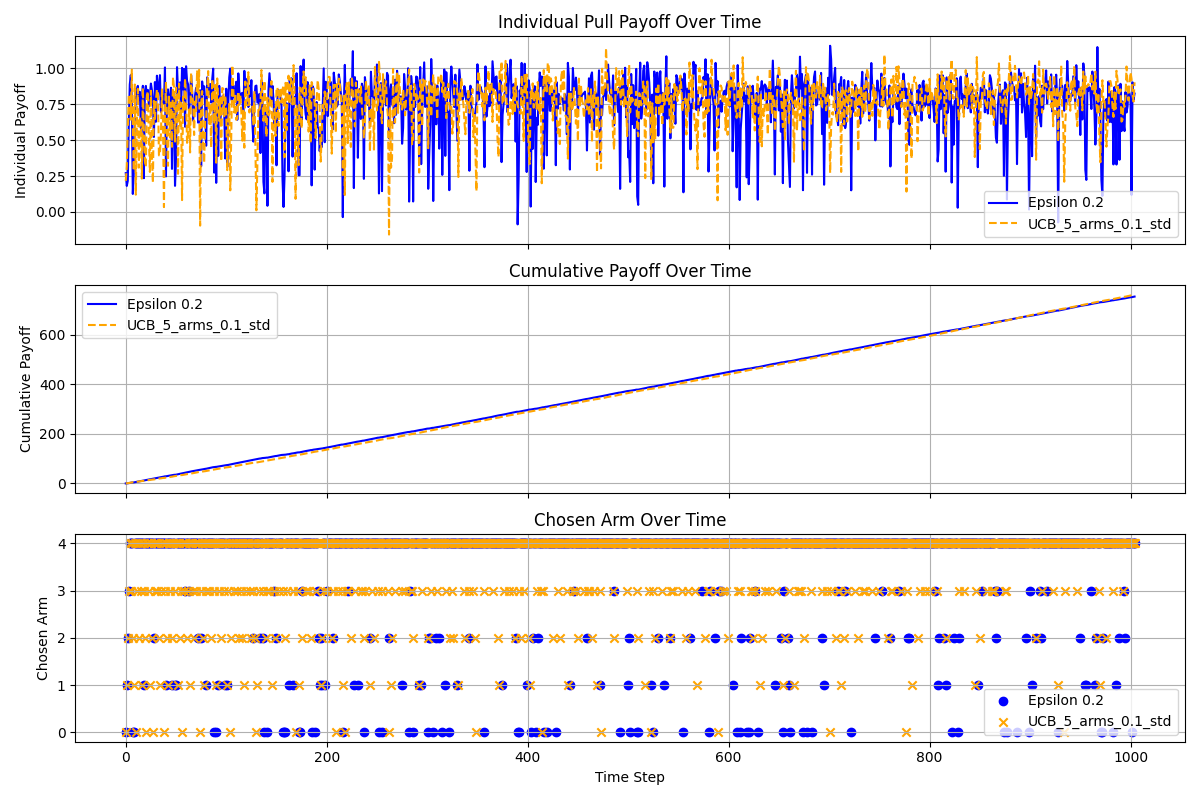
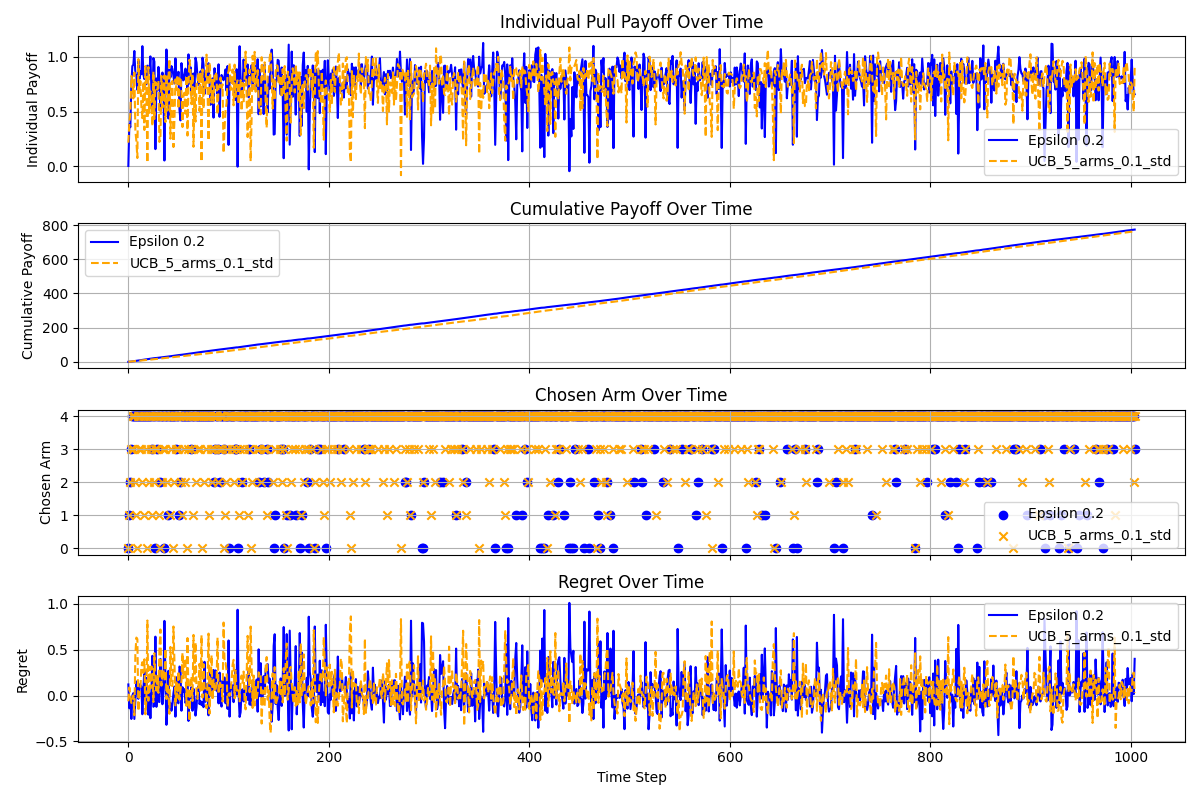
regret incorporated

diff --git a/Algorithms/ucb.py b/Algorithms/ucb.py
@@ -16,11 +16,14 @@ def ucb_algorithm(bandit_sim, num_episodes=1000):
     """
     # Keep track of the following heuristic for each arm: 
     # (mean reward) + (exploration bonus)
+    best_arm = -1
+    highest_mean_payout = float('-inf')
     heuristic = lambda num_pulls, gained_from_arm, total_pulls: gained_from_arm / num_pulls + math.sqrt(2 * math.log(total_pulls) / num_pulls)
     payouts = []
     arm_pull_counts = []
     sequential_payoffs = []
     sequential_individual_payoffs = []
+    regret = []
     chosen_arms = []
     total_pulls = 0
     total_reward = 0
@@ -34,7 +37,12 @@ def ucb_algorithm(bandit_sim, num_episodes=1000):
         arm_pull_counts.append(1)
         total_pulls += 1
         chosen_arms.append(i)
-    
+        # Update the best arm if necessary
+        if payouts[i] > highest_mean_payout:
+            highest_mean_payout = payouts[i]
+            best_arm = i
+        regret.append(bandit_sim.pull_arm(best_arm)-payouts[i])
+        
     arm_heap = Heap(lambda arm_1, arm_2: heuristic(arm_pull_counts[arm_1], payouts[arm_1], total_pulls) > heuristic(arm_pull_counts[arm_2], payouts[arm_2], total_pulls))
     arms = [i for i in range(bandit_sim.n_arms)]
     arm_heap.heapify(arms)
@@ -55,8 +63,14 @@ def ucb_algorithm(bandit_sim, num_episodes=1000):
         # Store the sequential payoffs
         sequential_payoffs.append(total_reward)
         chosen_arms.append(arm)
+        # Update the best arm if necessary
+        if payouts[arm] > highest_mean_payout:
+            highest_mean_payout = payouts[arm]
+            best_arm = arm
+        # Update the regret
+        regret.append(bandit_sim.pull_arm(best_arm)-payout)
 
-    return sequential_individual_payoffs, sequential_payoffs, chosen_arms
+    return sequential_individual_payoffs, sequential_payoffs, chosen_arms, regret
 
 
 def epsilon_greedy_algorithm(bandit_sim, num_episodes=1000, epsilon=0.1):
@@ -76,6 +90,7 @@ def epsilon_greedy_algorithm(bandit_sim, num_episodes=1000, epsilon=0.1):
     best_arm = -1
     individual_payoffs = []
     cumulative_payoffs = []
+    regret = []
     chosen_arms = []
     total_reward = 0
     arm_rewards = [0] * bandit_sim.n_arms
@@ -92,6 +107,7 @@ def epsilon_greedy_algorithm(bandit_sim, num_episodes=1000, epsilon=0.1):
         if arm_rewards[i] / arm_counts[i] > highest_mean_payout:
             highest_mean_payout = arm_rewards[i] / arm_counts[i]
             best_arm = i
+        regret.append(bandit_sim.pull_arm(best_arm)-payout)
         chosen_arms.append(i)
 
     # Now we can start the algorithm
@@ -116,10 +132,13 @@ def epsilon_greedy_algorithm(bandit_sim, num_episodes=1000, epsilon=0.1):
         if arm_rewards[arm] / arm_counts[arm] > highest_mean_payout:
             highest_mean_payout = arm_rewards[arm] / arm_counts[arm]
             best_arm = arm
+
+        # Update the regret
+        regret.append(bandit_sim.pull_arm(best_arm)-payout)
         
         chosen_arms.append(arm)
 
-    return individual_payoffs, cumulative_payoffs, chosen_arms
+    return individual_payoffs, cumulative_payoffs, chosen_arms, regret
 
 
 def random_algorithm(bandit_sim, num_episodes=1000):
@@ -134,9 +153,12 @@ def random_algorithm(bandit_sim, num_episodes=1000):
     """
     # Keep track of the following heuristic for each arm: 
     # (mean reward) + (exploration bonus)
+    highest_mean_payout = float('-inf')
+    best_arm = -1
     payouts = []
     sequential_payoffs = []
     sequential_individual_payoffs = []
+    regret = []
     chosen_arms = []
     total_reward = 0
 
@@ -147,6 +169,12 @@ def random_algorithm(bandit_sim, num_episodes=1000):
         sequential_payoffs.append(total_reward)
         sequential_individual_payoffs.append(payouts[i])
         chosen_arms.append(i)
+        # Update the best arm if necessary
+        if payouts[i] > highest_mean_payout:
+            highest_mean_payout = payouts[i]
+            best_arm = i
+        # Update the regret
+        regret.append(bandit_sim.pull_arm(best_arm)-payouts[i])
 
     # Now we can start the algorithm
     for _ in range(num_episodes):
@@ -159,11 +187,17 @@ def random_algorithm(bandit_sim, num_episodes=1000):
         # Store the sequential payoffs
         sequential_payoffs.append(total_reward)
         chosen_arms.append(arm)
+        # Update the best arm if necessary
+        if payouts[arm] > highest_mean_payout:
+            highest_mean_payout = payouts[arm]
+            best_arm = arm
+        # Update the regret
+        regret.append(bandit_sim.pull_arm(best_arm)-payout)
 
-    return sequential_individual_payoffs, sequential_payoffs, chosen_arms
+    return sequential_individual_payoffs, sequential_payoffs, chosen_arms, regret
 
 
-def plot_results(first_individual, first_cumulative, first_chosen, second_individual, second_cumulative, second_chosen, first_method, second_method):
+def plot_results(first_individual, first_cumulative, first_chosen, first_regret, second_individual, second_cumulative, second_chosen, second_regret, first_method, second_method):
     """
     Plot the results of the UCB and random algorithms.
     """
@@ -171,7 +205,7 @@ def plot_results(first_individual, first_cumulative, first_chosen, second_indivi
 
     time_steps = range(len(first_individual))
 
-    _, axes = plt.subplots(nrows=3, ncols=1, figsize=(12, 8), sharex=True)
+    _, axes = plt.subplots(nrows=4, ncols=1, figsize=(12, 8), sharex=True)
 
     # ---- Top Plot: Individual Payoffs ----
     axes[0].plot(time_steps, first_individual, label=first_method, color='blue')
@@ -181,7 +215,7 @@ def plot_results(first_individual, first_cumulative, first_chosen, second_indivi
     axes[0].legend()
     axes[0].grid(True)
 
-    # ---- Middle Plot: Cumulative Payoffs ----
+    # ---- Next Plot: Cumulative Payoffs ----
     axes[1].plot(time_steps, first_cumulative, label=first_method, color='blue')
     axes[1].plot(time_steps, second_cumulative, label=second_method, color='orange', linestyle='--')
     axes[1].set_ylabel('Cumulative Payoff')
@@ -189,14 +223,22 @@ def plot_results(first_individual, first_cumulative, first_chosen, second_indivi
     axes[1].legend()
     axes[1].grid(True)
 
-    # ---- Bottom Plot: Chosen Arms ----
+    # ---- Third Plot: Chosen Arms ----
     axes[2].scatter(time_steps, first_chosen, label=first_method, color='blue', marker='o')
     axes[2].scatter(time_steps, second_chosen, label=second_method, color='orange', marker='x')
-    axes[2].set_xlabel('Time Step')
     axes[2].set_ylabel('Chosen Arm')
     axes[2].set_title('Chosen Arm Over Time')
     axes[2].legend()
     axes[2].grid(True)
+
+    # ---- Bottom Plot: Regret ----
+    axes[3].plot(time_steps, first_regret, label=first_method, color='blue')
+    axes[3].plot(time_steps, second_regret, label=second_method, color='orange', linestyle='--')
+    axes[3].set_xlabel('Time Step')
+    axes[3].set_ylabel('Regret')
+    axes[3].set_title('Regret Over Time')
+    axes[3].legend()
+    axes[3].grid(True)
 
     plt.tight_layout()
     plt.savefig(f'Results/multi_arm_bandit_{first_method}_vs_{second_method}.png')

diff --git a/multi_arm_bandit.py b/multi_arm_bandit.py
@@ -2,16 +2,16 @@ from BanditSimulator.bandit_sim import Bandit_Sim
 from Algorithms.ucb import ucb_algorithm, epsilon_greedy_algorithm, random_algorithm, plot_results
 
 def compare_algorithms(bs, simulator_name=None):
-    individual_ucb, cumulative_ucb, chosen_ucb = ucb_algorithm(bs, num_episodes=1000)
-    individual_random, cumulative_random, chosen_random = random_algorithm(bs, num_episodes=1000)
-    individual_epsilon_01, cumulative_epsilon_01, chosen_epsilon_01 = epsilon_greedy_algorithm(bs, num_episodes=1000, epsilon=0.1)
-    individual_epsilon_02, cumulative_epsilon_02, chosen_epsilon_02 = epsilon_greedy_algorithm(bs, num_episodes=1000, epsilon=0.2)
-    individual_epsilon_03, cumulative_epsilon_03, chosen_epsilon_03 = epsilon_greedy_algorithm(bs, num_episodes=1000, epsilon=0.3)
+    individual_ucb, cumulative_ucb, chosen_ucb, regret_ucb, = ucb_algorithm(bs, num_episodes=1000)
+    individual_random, cumulative_random, chosen_random, regret_random = random_algorithm(bs, num_episodes=1000)
+    individual_epsilon_01, cumulative_epsilon_01, chosen_epsilon_01, regret_epsilon_01 = epsilon_greedy_algorithm(bs, num_episodes=1000, epsilon=0.1)
+    individual_epsilon_02, cumulative_epsilon_02, chosen_epsilon_02, regret_epsilon_02 = epsilon_greedy_algorithm(bs, num_episodes=1000, epsilon=0.2)
+    individual_epsilon_03, cumulative_epsilon_03, chosen_epsilon_03, regret_epsilon_03 = epsilon_greedy_algorithm(bs, num_episodes=1000, epsilon=0.3)
 
-    plot_results(individual_random, cumulative_random, chosen_random, individual_ucb, cumulative_ucb, chosen_ucb, first_method="Random", second_method="UCB" if simulator_name==None else f"UCB_{simulator_name}")
-    plot_results(individual_epsilon_01, cumulative_epsilon_01, chosen_epsilon_01, individual_ucb, cumulative_ucb, chosen_ucb, first_method="Epsilon 0.1", second_method="UCB" if simulator_name==None else f"UCB_{simulator_name}")
-    plot_results(individual_epsilon_02, cumulative_epsilon_02, chosen_epsilon_02, individual_ucb, cumulative_ucb, chosen_ucb, first_method="Epsilon 0.2", second_method="UCB" if simulator_name==None else f"UCB_{simulator_name}")
-    plot_results(individual_epsilon_03, cumulative_epsilon_03, chosen_epsilon_03, individual_ucb, cumulative_ucb, chosen_ucb, first_method="Epsilon 0.3", second_method="UCB" if simulator_name==None else f"UCB_{simulator_name}")
+    plot_results(individual_random, cumulative_random, chosen_random, regret_random, individual_ucb, cumulative_ucb, chosen_ucb, regret_ucb, first_method="Random", second_method="UCB" if simulator_name==None else f"UCB_{simulator_name}")
+    plot_results(individual_epsilon_01, cumulative_epsilon_01, chosen_epsilon_01, regret_epsilon_01, individual_ucb, cumulative_ucb, chosen_ucb, regret_ucb, first_method="Epsilon 0.1", second_method="UCB" if simulator_name==None else f"UCB_{simulator_name}")
+    plot_results(individual_epsilon_02, cumulative_epsilon_02, chosen_epsilon_02, regret_epsilon_02, individual_ucb, cumulative_ucb, chosen_ucb, regret_ucb, first_method="Epsilon 0.2", second_method="UCB" if simulator_name==None else f"UCB_{simulator_name}")
+    plot_results(individual_epsilon_03, cumulative_epsilon_03, chosen_epsilon_03, regret_epsilon_03, individual_ucb, cumulative_ucb, chosen_ucb, regret_ucb, first_method="Epsilon 0.3", second_method="UCB" if simulator_name==None else f"UCB_{simulator_name}")
 
 bs = Bandit_Sim(n_arms=5, payout_std=0.1, seed=42)
 compare_algorithms(bs, "5_arms_0.1_std")
